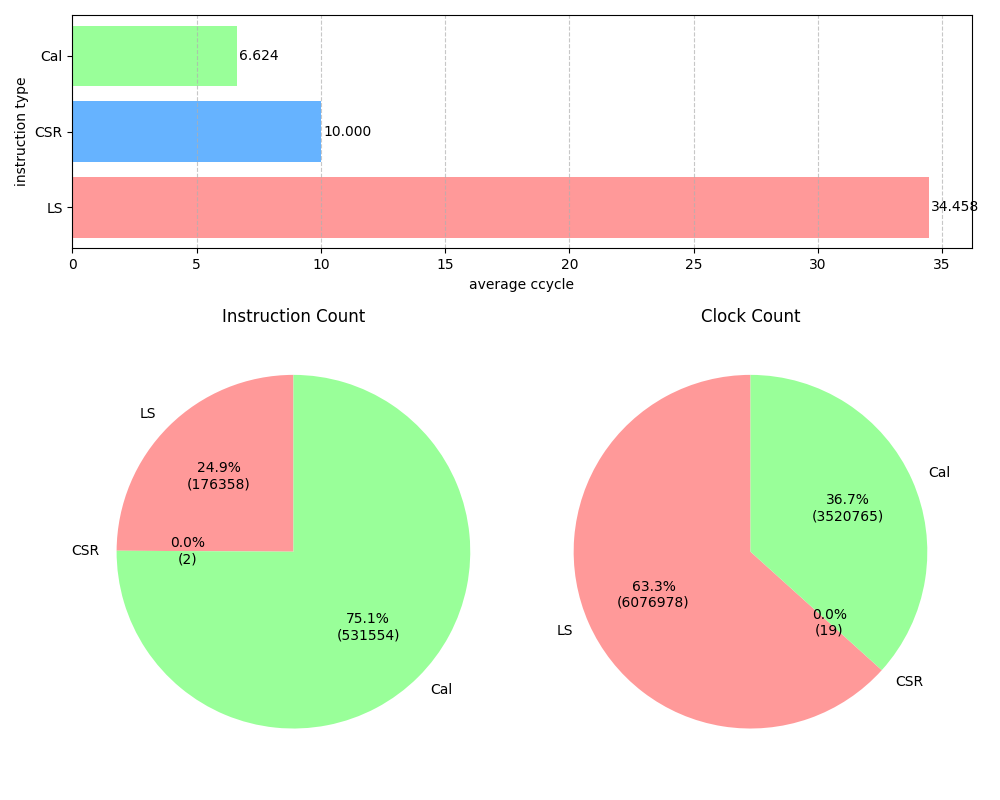
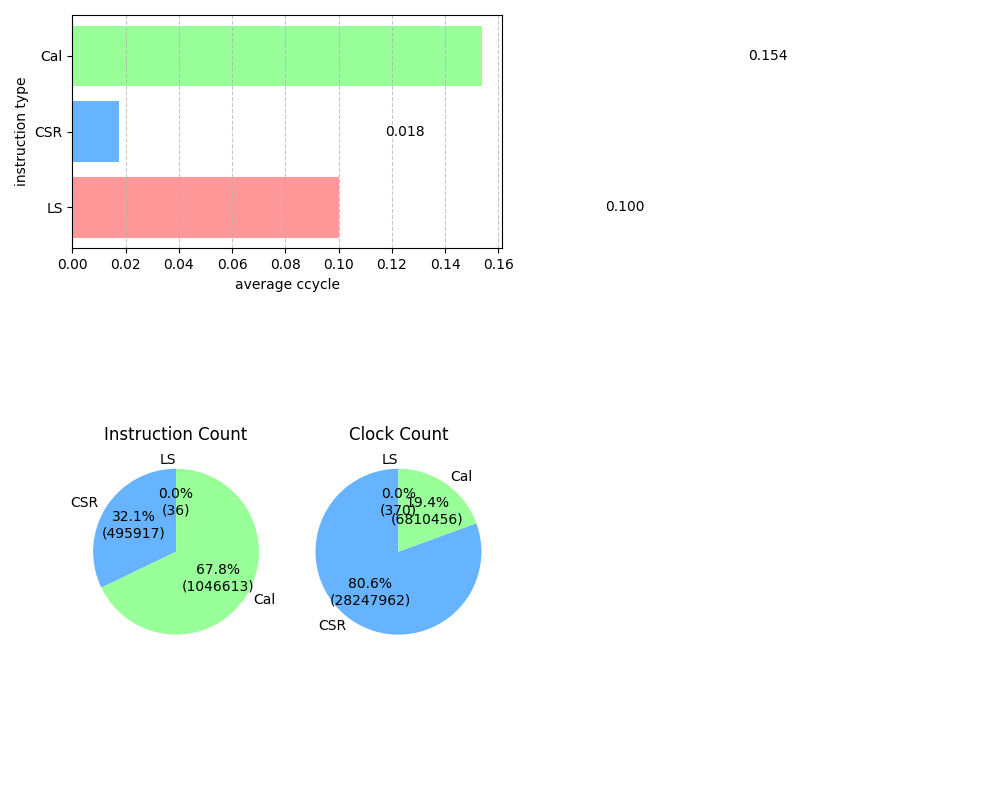
core

diff --git a/npc/platform/core/get_parameter.py b/npc/platform/core/get_parameter.py
@@ -18,38 +18,25 @@ def get_latest_commit_message():
     return latest_commit.message.strip()
 
 def read_report():
+    data = {}
+
     with open("./build/report.txt", 'r') as file:
-        lines = file.readlines()
+        for line in file:
+            match = re.match(r'(\w+):\s+([\d\s]+)', line)
+            if match:
+                key = match.group(1)
+                values = list(map(int, match.group(2).split()))
+                data[key] = values
 
-    inst_cnt    = int(lines[0].strip()) 
-    clk_cnt     = int(lines[1].strip())       
-    ipc         = float(lines[2].strip())           
-    ifu_pc      = int(lines[3].strip())           
-    lsu_pc      = int(lines[4].strip())           
-    alu_pc      = int(lines[5].strip())     
-    i_LS        = int(lines[6].strip())
-    i_CSR       = int(lines[7].strip())
-    i_Cal       = int(lines[8].strip())
-    c_LS        = int(lines[9].strip())
-    c_CSR       = int(lines[10].strip())
-    c_Cal       = int(lines[11].strip())
-    icache_hit  = int(lines[12].strip())
-    icache_map_hit = int(lines[13].strip())
-
-
-    return inst_cnt, clk_cnt, ipc, ifu_pc, lsu_pc, alu_pc, i_LS, i_CSR, i_Cal, c_LS, c_CSR, c_Cal, icache_hit, icache_map_hit
+    return data
 
 def truncate_string(input_str, max_length):
-    # 检查字符串是否超过最大长度
     if len(input_str) > max_length:
-        # 截断并在末尾添加省略号
         return input_str[:max_length - 3] + "..."
     else:
-        # 如果字符串未超过最大长度，则直接返回原字符串
         return input_str
     
 def add_newlines(text, length):
-    # 使用列表推导式，每隔指定长度分割一次，并在每段后添加换行符
     return '\n'.join([text[i:i+length] for i in range(0, len(text), length)])
 
 
@@ -76,14 +63,18 @@ def get_Chip_area():
 if __name__ == '__main__':
     print("Commit: ", get_latest_commit_id())
 
-    inst_cnt, clk_cnt, ipc, ifu_pc, lsu_pc, alu_pc, i_LS, i_CSR, i_Cal, c_LS, c_CSR, c_Cal, icache_hit, icache_map_hit = read_report()
+    data = read_report()
 
-    print("Instruction count: ", inst_cnt)
-    print("Clock count: ", clk_cnt)
-    print("IPC: ", ipc)
-    print("IFU performence counter: ", ifu_pc)
-    print("LSU performence counter: ", lsu_pc)
-    print("ALU performence counter: ", alu_pc)
+    print("CSR inst: ", data['CSR'][0], "CSR clk", data['CSR'][1])
+    print("LS inst: ", data['LS'][0], "LS clk", data['LS'][1])
+    print("Cal inst: ", data['Cal'][0], "Cal clk", data['Cal'][1])
+    print("GP inst: ", data['GP'][0], "GP clk", data['GP'][1])
+
+    print("ALU pc", data['ALU'][0])
+    print("LSU pc", data['LSU'][0])
+    print("IFU pc", data['IFU'][0])
+
+    print("Cache map hit: ", data['Inst'][0], "Cache hit", data['Inst'][1])
 
     print("Freq: ", get_Freq())
     print("Chip area: ", get_Chip_area())

diff --git a/npc/platform/core/perf.py b/npc/platform/core/perf.py
@@ -1,23 +1,41 @@
+from decimal import getcontext
 from matplotlib import gridspec
 import get_parameter as gp
 from tabulate import tabulate
 import matplotlib.pyplot as plt
+from typing import TypeVar, Union, List
 
-inst_cnt, clk_cnt, ipc, ifu_pc, lsu_pc, alu_pc, i_LS, i_CSR, i_Cal, c_LS, c_CSR, c_Cal, icache_hit, icache_map_hit = gp.read_report()
-ac_LS, ac_CSR, ac_Cal = c_LS / i_LS, c_CSR / i_CSR, c_Cal / i_Cal
-icache_hit_rate = icache_hit / icache_map_hit
+data = gp.read_report()
 Freq = float(gp.get_Freq())
+
+T = TypeVar('T', int, float, complex)
+
+def safe_divide(numerator: Union[T, List[T]], denominator: Union[T, List[T]], precision: int = 100) -> Union[T, List[T], float]:
+    getcontext().prec = precision  # 设置局部精度
+
+    try:
+        if isinstance(numerator, list) and isinstance(denominator, list):
+            return [safe_divide(n, d) for n, d in zip(numerator, denominator)]
+        elif isinstance(numerator, list):
+            return [safe_divide(n, denominator) for n in numerator]
+        elif isinstance(denominator, list):
+            return [safe_divide(numerator, d) for d in denominator]
+        else:
+            return numerator / denominator
+    except ZeroDivisionError:
+        return 0  # 或者返回其他适当的值，如 0 或 None
+
 
 def tabulate_show():
     df = {
         'Commit': [gp.get_commit_id()],
         'Message': [gp.get_commit_message()],
-        'Performance Index': [ipc * Freq],
+        'Performance Index': [safe_divide(data['GP'][1], data['GP'][0] * Freq)],
         'Chip area(um^2)': [gp.get_Chip_area()],
-        'IPC': [ipc],
+        'IPC': [safe_divide(data['GP'][1], data['GP'][0])],
         'Freq(MHz)': [Freq],
-        'Icache hit rate': [icache_hit_rate],
-        'Simulation clk_cnt': [clk_cnt],
+        'Icache hit rate': [safe_divide(data['Inst'][0], data['GP'][1])],
+        'Simulation clk_cnt': [data['GP'][0]],
     }
 
     colalign = ("center",) * len(df)
@@ -29,9 +47,9 @@ def ui():
         absolute = int(pct/100.*sum(allvalues))
         return f"{pct:.1f}%\n({absolute})"
 
-    inst_nums = [i_LS, i_CSR, i_Cal]
-    clk_nums = [c_LS, c_CSR, c_Cal]
-    a_cycle = [ac_LS, ac_CSR, ac_Cal]
+    clk_nums = [data['CSR'][0], data['LS'][0], data['Cal'][0]]
+    inst_nums = [data['CSR'][1], data['LS'][1], data['Cal'][1]]
+    a_cycle = safe_divide(inst_nums, clk_nums)
     labels = ['LS', 'CSR', 'Cal']
     colors = ['#ff9999','#66b3ff','#99ff99']
 

diff --git a/npc/src/csrc/performence.cpp b/npc/src/csrc/performence.cpp
@@ -1,0 +1,77 @@
+#include "common.hpp"
+#include <performence.hpp>
+#include <fstream>
+#include <string>
+
+// Function to convert Inst_Type to string
+std::string inst_type_to_string(performence::Inst_Type type) {
+    switch(type) {
+        case performence::Inst_Type::GP: return "GP";
+        case performence::Inst_Type::Cal: return "Cal";
+        case performence::Inst_Type::LS: return "LS";
+        case performence::Inst_Type::CSR: return "CSR";
+        default: return "Unknown";
+    }
+}
+
+performence::performence(){
+
+    this->inst_cntrs.emplace(Inst_Type::GP, std::make_pair(0, 0));
+    this->inst_cntrs.emplace(Inst_Type::Cal, std::make_pair(0, 0));
+    this->inst_cntrs.emplace(Inst_Type::LS, std::make_pair(0, 0));
+    this->inst_cntrs.emplace(Inst_Type::CSR, std::make_pair(0, 0));
+
+    this->conpo_cntrs.emplace("IFU", 0);
+    this->conpo_cntrs.emplace("LSU", 0);
+    this->conpo_cntrs.emplace("ALU", 0);
+
+    this->cache_cntrs.emplace("Inst", std::make_pair(0, 0));
+}
+
+performence::~performence(){
+    std::string report_dir = "/home/wenjiu/ysyx-workbench/npc/platform/core/build/report.txt";
+
+    std::ofstream report(report_dir, std::ios::out);
+
+    for(auto &i : this->inst_cntrs){
+        report << inst_type_to_string(i.first) << ":\t" << i.second.first << " " << i.second.second << std::endl;
+    }
+
+    for(auto &i : this->conpo_cntrs){
+        report << i.first << ":\t" << i.second << std::endl;
+    }
+
+    for(auto &i : this->cache_cntrs){
+        report << i.first << ":\t" << i.second.first << " " << i.second.second << std::endl;
+    }
+
+    this->inst_cntrs.clear();
+    this->conpo_cntrs.clear();
+    this->cache_cntrs.clear();
+}
+
+void performence::clk_count(){
+    this->inst_cntrs[Inst_Type::GP].first += 1;
+    if(unlikely(this->cur_instType == Inst_Type::GP)) return;
+
+    this->inst_cntrs[this->cur_instType].first += 1;
+}
+
+void performence::inst_cont(){
+    this->inst_cntrs[Inst_Type::GP].second += 1;
+    if(unlikely(this->cur_instType == Inst_Type::GP)) return;
+    
+    this->inst_cntrs[this->cur_instType].second += 1;
+}
+
+void performence::inst_type_set(Inst_Type type){
+    this->cur_instType = type;
+}
+
+void performence::coponent_count(const std::string& name){
+    if(this->conpo_cntrs.find(name) == this->conpo_cntrs.end()){ 
+        Log("Unknown component name: %s", name.c_str());
+        return;
+    }
+    this->conpo_cntrs[name] += 1;
+}

diff --git a/npc/src/csrc/emulator.cpp b/npc/src/csrc/emulator.cpp
@@ -217,8 +217,6 @@ Emulator::Emulator(int argc, char **argv) : argc(argc), argv{argv} {
 
     this->load_image();
 
-    this->init_simulate();
-
     init_disasm("riscv32");
 
     #ifdef CONFIG_DIFFTEST
@@ -227,11 +225,17 @@ Emulator::Emulator(int argc, char **argv) : argc(argc), argv{argv} {
         [&](int a0) { this->Emulator_trap(a0); });
     #endif
 
+    this->perf = std::make_unique<performence>();
+
+    this->init_simulate();
+
     welcome();
 }
 
 Emulator::~Emulator() {
     this->tfp->close();
+
+    this->memorys.clear();
 
     #ifdef CONFIG_NVBOARD
     nvboard_quit();
@@ -259,6 +263,8 @@ void Emulator::cycle(uint64_t n) {
         #ifdef CONFIG_NVBOARD
         nvboard_update();
         #endif
+
+        this->perf->clk_count();
 
         if(this->npc_state.state != NPC_RUNNING) break;
     }
@@ -298,6 +304,8 @@ void Emulator::Emulator_trap(uint32_t a0) {
 }
 
 void Emulator::IFU_catch(uint32_t inst){
+    this->perf->coponent_count("IFU");
+
     this->instruction_buffer_push(cpu.pc, inst);
 
     if(!this->instruciton_trace_on) return;
@@ -305,7 +313,17 @@ void Emulator::IFU_catch(uint32_t inst){
     std::cout << this->disasm(cpu.pc, inst) << std::endl;
 }
 
+void Emulator::IDU_catch(performence::Inst_Type type){
+    this->perf->inst_type_set(type);
+}
+
+void Emulator::ALU_catch(){
+    this->perf->coponent_count("ALU");
+}
+
 void Emulator::LSU_catch(uint32_t diff_skip){
+    this->perf->coponent_count("LSU");
+    
     if(diff_skip == 0) return;
 
     #ifdef CONFIG_DIFFTEST
@@ -324,6 +342,8 @@ void Emulator::WBU_catch(uint32_t next_pc, \
     if(gpr_waddr != 0) this->cpu.gpr[gpr_waddr] = gpr_wdata;
     if(csr_wena) this->cpu.sr[csr_waddra] = csr_wdataa;
     if(csr_wenb) this->cpu.sr[csr_waddrb] = csr_wdatab;
+
+    this->perf->inst_cont();
 
     #ifdef CONFIG_DIFFTEST
     this->difftest->difftest_step(cpu.pc);

diff --git a/npc/src/csrc/dpic.cpp b/npc/src/csrc/dpic.cpp
@@ -1,3 +1,4 @@
+#include "performence.hpp"
 #include <simple_debugger.hpp>
 #include <memory>
 #include <utils.hpp>
@@ -50,6 +51,21 @@ extern "C" {
 
     extern void IFU_catch(uint32_t inst){
         emulator->IFU_catch(inst);
+    }
+
+    extern void IDU_catch(uint32_t type){
+        performence::Inst_Type inst_type;
+        switch(type){
+            case 0: inst_type = performence::Inst_Type::Cal; break;
+            case 1: inst_type = performence::Inst_Type::LS; break;
+            case 2: inst_type = performence::Inst_Type::CSR; break;
+            default: inst_type = performence::Inst_Type::GP; break;
+        }
+        emulator->IDU_catch(inst_type);
+    }
+
+    extern void ALU_catch(){
+        emulator->ALU_catch();
     }
 
     extern void LSU_catch(uint32_t diff_skip){

diff --git a/npc/include/emulator.hpp b/npc/include/emulator.hpp
@@ -7,6 +7,7 @@
 #include <utils.hpp>
 #include <unordered_map>
 #include <differtest.hpp>
+#include <performence.hpp>
 
 class Emulator {
     private:
@@ -53,6 +54,8 @@ class Emulator {
 
         std::unordered_map<std::string, std::unique_ptr<Memory>> memorys;
         
+        std::unique_ptr<performence> perf;
+
         void reset(uint64_t n);
         void cycle(uint64_t n);
         void single_inst(uint64_t n);
@@ -63,6 +66,8 @@ class Emulator {
         void Emulator_trap(uint32_t a0);
 
         void IFU_catch(uint32_t inst);
+        void IDU_catch(performence::Inst_Type type);
+        void ALU_catch();
         void LSU_catch(uint32_t diff_skip);
         void WBU_catch(uint32_t next_pc, \
         uint32_t gpr_waddr, uint32_t gpr_wdata, \

diff --git a/npc/include/performence.hpp b/npc/include/performence.hpp
@@ -1,0 +1,31 @@
+#ifndef __PERFORMENCE_HPP__
+#define __PERFORMENCE_HPP__
+
+#include <utils.hpp>
+#include <unordered_map>
+
+class performence {
+    public:
+    enum class Inst_Type{
+        GP,
+        Cal,
+        LS,
+        CSR
+    };
+    performence::Inst_Type cur_instType = Inst_Type::GP;
+
+    std::unordered_map<Inst_Type, std::pair<uint64_t, uint64_t>> inst_cntrs;
+    std::unordered_map<std::string, uint64_t> conpo_cntrs;
+    std::unordered_map<std::string, std::pair<uint64_t, uint64_t>> cache_cntrs;
+
+    performence();
+    ~performence();
+
+    void clk_count();
+    void inst_cont();
+    void inst_type_set(Inst_Type type);
+
+    void coponent_count(const std::string& name);
+};
+
+#endif
